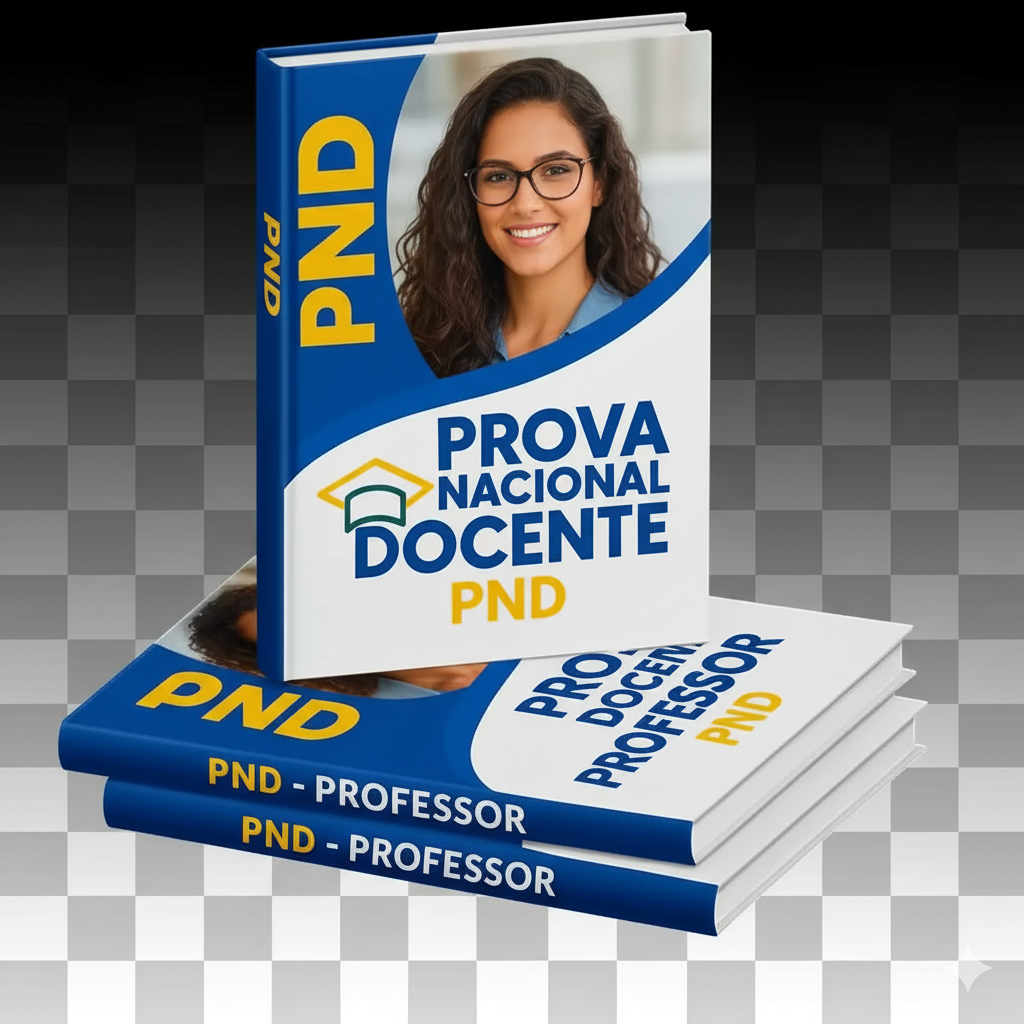
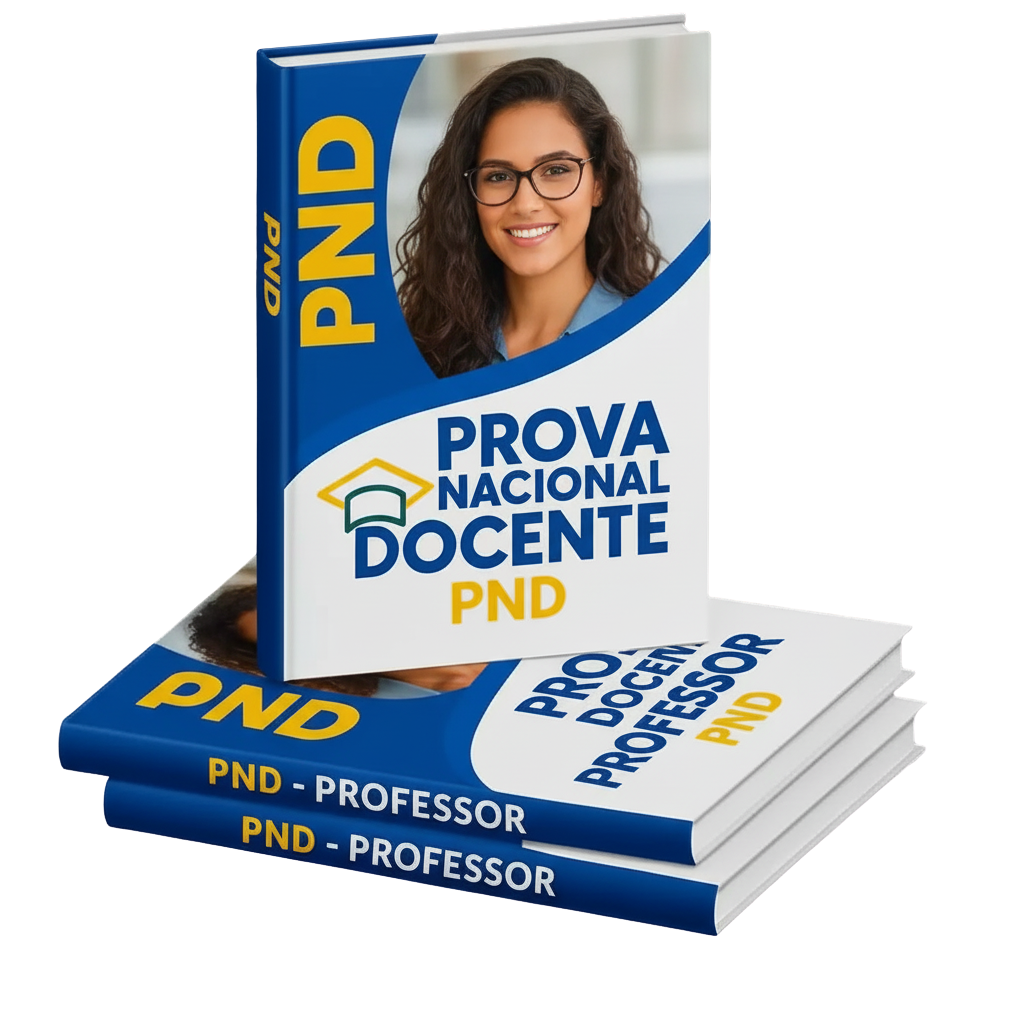
Update Hero section image and fix button

diff --git a/src/components/Hero.tsx b/src/components/Hero.tsx
@@ -147,7 +147,7 @@ export function Hero() {
               <Button 
                 size="lg" 
                 variant="gold"
-                className="text-lg md:text-xl px-10 py-8 font-bold shadow-xl hover:shadow-2xl transition-all transform hover:scale-105"
+                className="text-base sm:text-lg md:text-xl px-6 sm:px-8 md:px-10 py-6 sm:py-7 md:py-8 font-bold shadow-xl hover:shadow-2xl transition-all transform hover:scale-105 w-full sm:w-auto max-w-md mx-auto"
                 onClick={() => window.open('https://pay.kiwify.com.br/vS4emBV', '_blank')}
               >
                 QUERO MINHA APOSTILA POR R$ 10,90
